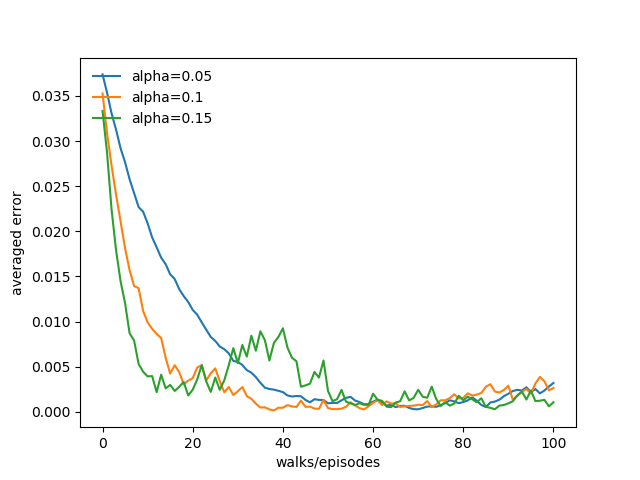
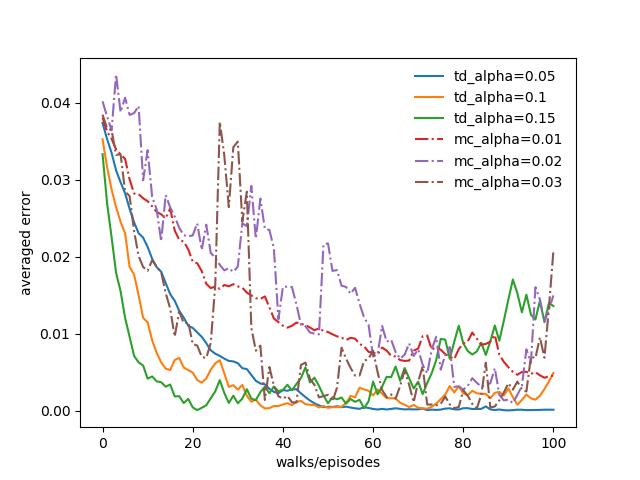
td mc

diff --git a/chap6/random_walk.py b/chap6/random_walk.py
@@ -29,11 +29,30 @@ import numpy as np
 import matplotlib.pyplot as plt
 import copy
 
-def predict(value, alpha=0.1):
+def mc_predict(value, alpha):
+    s = 3
+    g = 0.0
+    states = [s]
+    while s != 0 and s != 6:
+        a = -1 
+        if np.random.binomial(1, 0.5) == 1.0:
+            a = 1
+        ns = s + a
+        states.append(ns)
+        r = 0.0
+        if ns == 6:
+            r = 1.0
+        g = 1.0 * g + r
+        s = ns
+    for s in states:
+        value[s] += alpha*(g - value[s])
+    return value
+
+def td_predict(value, alpha):
     s = 3
     while s != 0 and s != 6:
         a = -1 
-        if np.random.uniform(0, 1) >= 0.5:
+        if np.random.binomial(1, 0.5) == 1.0:
             a = 1
         ns = s + a
         r = 0.0
@@ -41,7 +60,7 @@ def predict(value, alpha=0.1):
         s = ns
     return value
 
-def run_err(alpha):
+def mc_err(alpha):
     count = 101
     true_value = np.array([0, 1/6, 2/6, 3/6, 4/6, 5/6, 1.0])    
     value = np.zeros(7) + 0.5
@@ -49,11 +68,23 @@ def run_err(alpha):
     value[0] = 0.0
     errs = list()
     for _ in range(count):
-        value = predict(value, alpha)
+        value = mc_predict(value, alpha)
         errs.append(np.mean(np.power(value - true_value, 2)))
     return errs
 
-def run_value():
+def td_err(alpha):
+    count = 101
+    true_value = np.array([0, 1/6, 2/6, 3/6, 4/6, 5/6, 1.0])    
+    value = np.zeros(7) + 0.5
+    value[6] = 1.0
+    value[0] = 0.0
+    errs = list()
+    for _ in range(count):
+        value = td_predict(value, alpha)
+        errs.append(np.mean(np.power(value - true_value, 2)))
+    return errs
+
+def mc_value():
     count = 101
     value = np.zeros(7) + 0.5
     value[6] = 1.0
@@ -63,17 +94,33 @@ def run_value():
     for i in range(count):
         if i in episodes:
             values.append(copy.deepcopy(value[1:6]))
-        value = predict(value, 0.1)
+        value = mc_predict(value, 0.1)
+    return values
+
+def td_value():
+    count = 101
+    value = np.zeros(7) + 0.5
+    value[6] = 1.0
+    value[0] = 0.0
+    values = list()
+    episodes = [0, 1, 10 ,100]
+    for i in range(count):
+        if i in episodes:
+            values.append(copy.deepcopy(value[1:6]))
+        value = td_predict(value, 0.1)
     return values
 
 
 def image_err(x, y, l):
     plt.subplot(1, 1, 1)
     for i, e in enumerate(y):
-        plt.plot(x, e, label=l[i])
+        if i > 2:
+            plt.plot(x, e, label=l[i], linestyle='dashdot')
+        else:
+            plt.plot(x, e, label=l[i])
     plt.xlabel('walks/episodes')
     plt.ylabel('averaged error')
-    plt.legend(loc='upper left', frameon=False)
+    plt.legend(loc='upper right', frameon=False)
     plt.savefig('./walk_error.png')
     plt.close()
 
@@ -88,10 +135,10 @@ def image_value(x, y, l):
     plt.close()
 
 def main():
-    e = [run_err(0.05), run_err(0.1), run_err(0.15)]
-    v = run_value()
+    e = [td_err(0.05), td_err(0.1), td_err(0.15), mc_err(0.01), mc_err(0.02), mc_err(0.03)]
+    v = td_value()
     v.append(np.array([1/6, 2/6, 3/6, 4/6, 5/6]))
-    image_err(range(101), e, ['alpha=0.05', 'alpha=0.1', 'alpha=0.15'])
+    image_err(range(101), e, ['td_alpha=0.05', 'td_alpha=0.1', 'td_alpha=0.15', 'mc_alpha=0.01', 'mc_alpha=0.02', 'mc_alpha=0.03'])
     image_value(['A', 'B', 'C', 'D', 'E'], v, ['0', '1', '10', '100', 'true'])
     
 if __name__ == "__main__":
